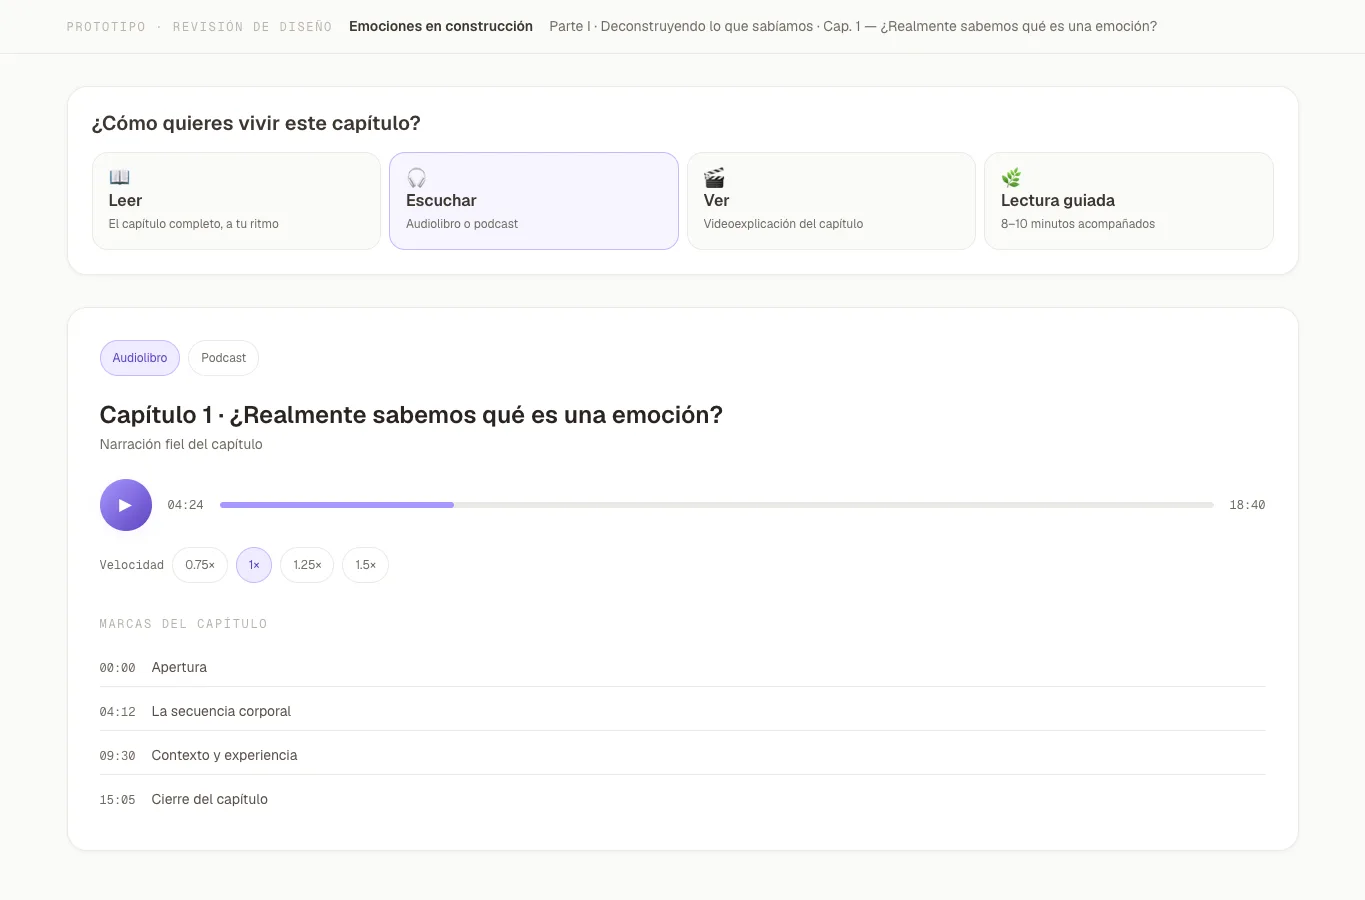
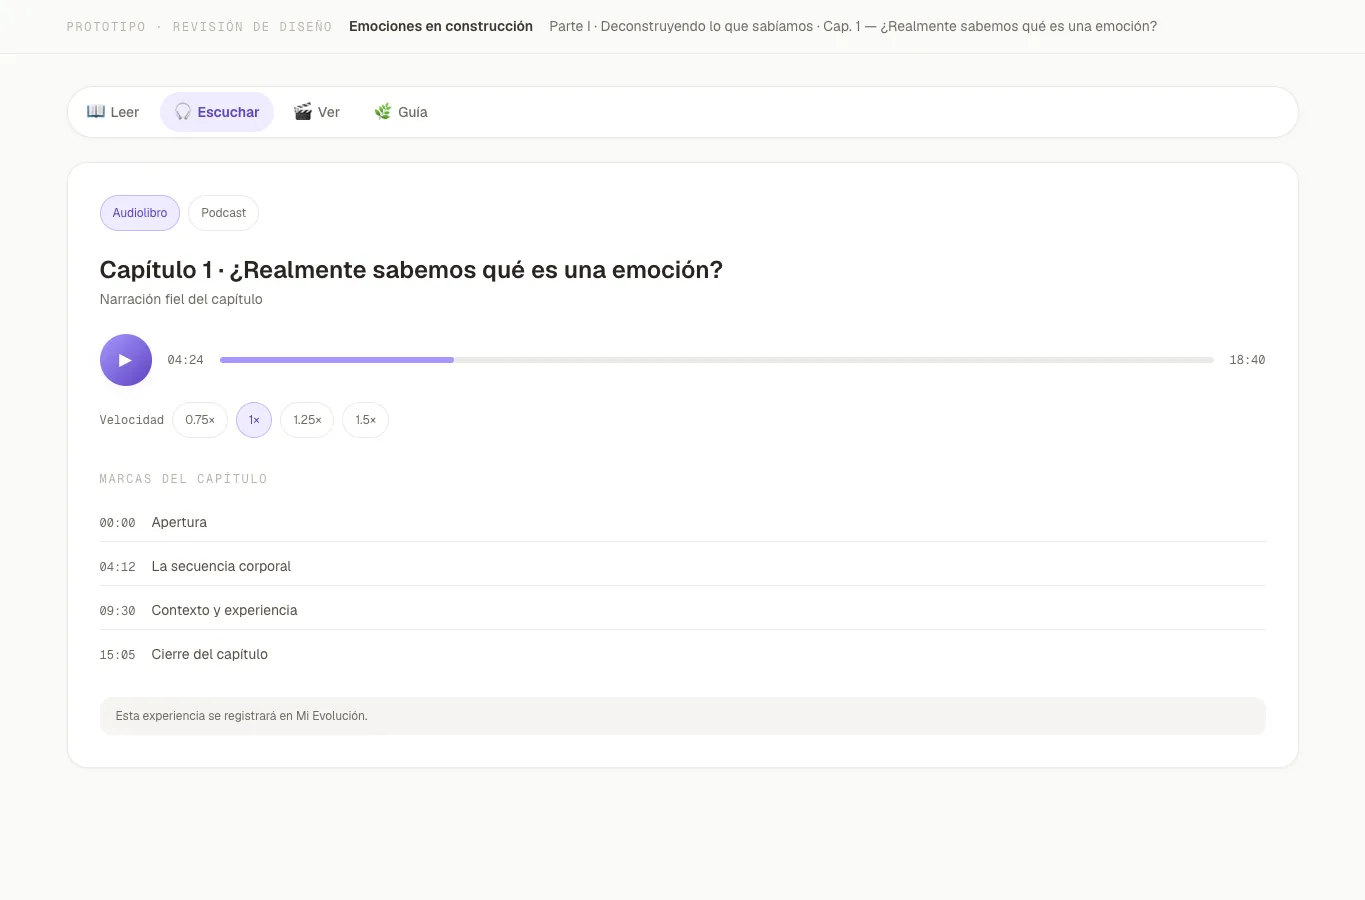
docs(product): regenerate GR-1 visual evidence and record the mobile measurement
Las nueve capturas se regeneraron desde un único SHA
(ea6e63a640bea3bb9edf1f8397e6e7a8850ebb57) y reflejan las correcciones:
selector compacto, video con título/duración/controles en el primer viewport,
pasaje con jerarquía de acciones, práctica con confirmación bloqueada, feedback
rotulado y sheet móvil sin recortes.

Registra además la medición real de desbordamiento horizontal a 390 x 844 en
navegador: las diez superficies móviles miden scrollWidth = innerWidth = 390.

diff --git a/docs/product/guided-reading-v1.md b/docs/product/guided-reading-v1.md
@@ -828,6 +828,21 @@ GR1_PROTOTYPE_ROUTE=/prototipos/lectura-guiada
 PROTOTYPE_AVAILABLE_IN_PRODUCTION=false
 PROTOTYPE_LINKED_FROM_PRODUCT_NAV=false
 
+VISUAL_EVIDENCE_SOURCE_SHA=ea6e63a640bea3bb9edf1f8397e6e7a8850ebb57
+SCREENSHOTS_REGENERATED_FROM_SINGLE_HEAD=true
+
+PRACTICE_EXPLICIT_ROUTE_REQUIRED=true
+PRACTICE_COMPLETE_BEFORE_ROUTE_CALLS=0
+ANCHOR_ACTION_HIERARCHY_PASS=true
+REPEAT_FLOW_FULL_RESET=true
+MEDIA_CONTROLS_COHERENT=true
+MOBILE_HORIZONTAL_OVERFLOW=0
+
+PROTOTYPE_EVOLUTION_WRITE=false
+PROTOTYPE_RESONANCE_WRITE=false
+PROTOTYPE_CHECKIN_WRITE=false
+PROTOTYPE_MAP_WRITES=0
+
 PROTOTYPE_ANCHOR_KIND=VISUAL_PLACEHOLDER
 PROTOTYPE_ANCHOR_BLOCK_KEY=null
 RUNTIME_ANCHOR_APPROVED=false
@@ -864,6 +879,17 @@ Parametros deterministas usados para las capturas (solo preview, nunca contrato
 productivo): `?mode=read|listen|watch`, `?mode=guide&scene=1..7`,
 `&outcome=correct|review`.
 
+Medicion real de desbordamiento horizontal a 390 x 844, en navegador (no en
+jsdom, que no calcula layout). Las diez superficies moviles —lectura, escuchar,
+ver y las siete escenas de la Guide— miden
+`document.documentElement.scrollWidth = 390` con `window.innerWidth = 390`, y el
+sheet ocupa exactamente 390 px:
+
+```
+MOBILE_HORIZONTAL_OVERFLOW=0
+MOBILE_SCENES_MEASURED=10
+```
+
 Lo que las capturas **no** demuestran, porque GR-1 no lo implementa: sesion
 real, receipts, idempotencia, recovery entre dispositivos, anchor de Content
 Core, multimedia real, escritura de `Resonance` ni del Mapa Emocional.
@@ -888,6 +914,7 @@ GR-P05 → GR-017    GR-P10 → GR-022
 | 2026-07-29 | 0.2     | Corrected Content Core facts, scoped Map rule, candidate authority status, editorial anchor, recall authority and scene/checkpoint continuity proposals.                                                                                                              |
 | 2026-07-29 | 0.3     | Jorge approved the Guided Reading decision packet. Promoted GR-P01…GR-P10 to GR-013…GR-022. Approved MVP constraints for media analytics, podcast format, local scene and playback state, ReaderMode compatibility, deferred hosting and the visual prototype anchor. |
 | 2026-07-29 | 0.4     | Created the isolated Guided Reading visual prototype for product review. No runtime integration, API calls, persistence or production exposure.                                                                                                                       |
+| 2026-07-29 | 0.5     | Corrected prototype interaction and layout after Jorge's visual review, and set the activity policy: media and Guided Reading activity go to Mi Evolucion with a single completion event; the Emotional Map only receives explicit user actions.                      |
 
 Toda futura modificación del producto debe actualizar `SPEC_VERSION`,
 `LAST_UPDATED`, el Decision Registry y este Change Log.
